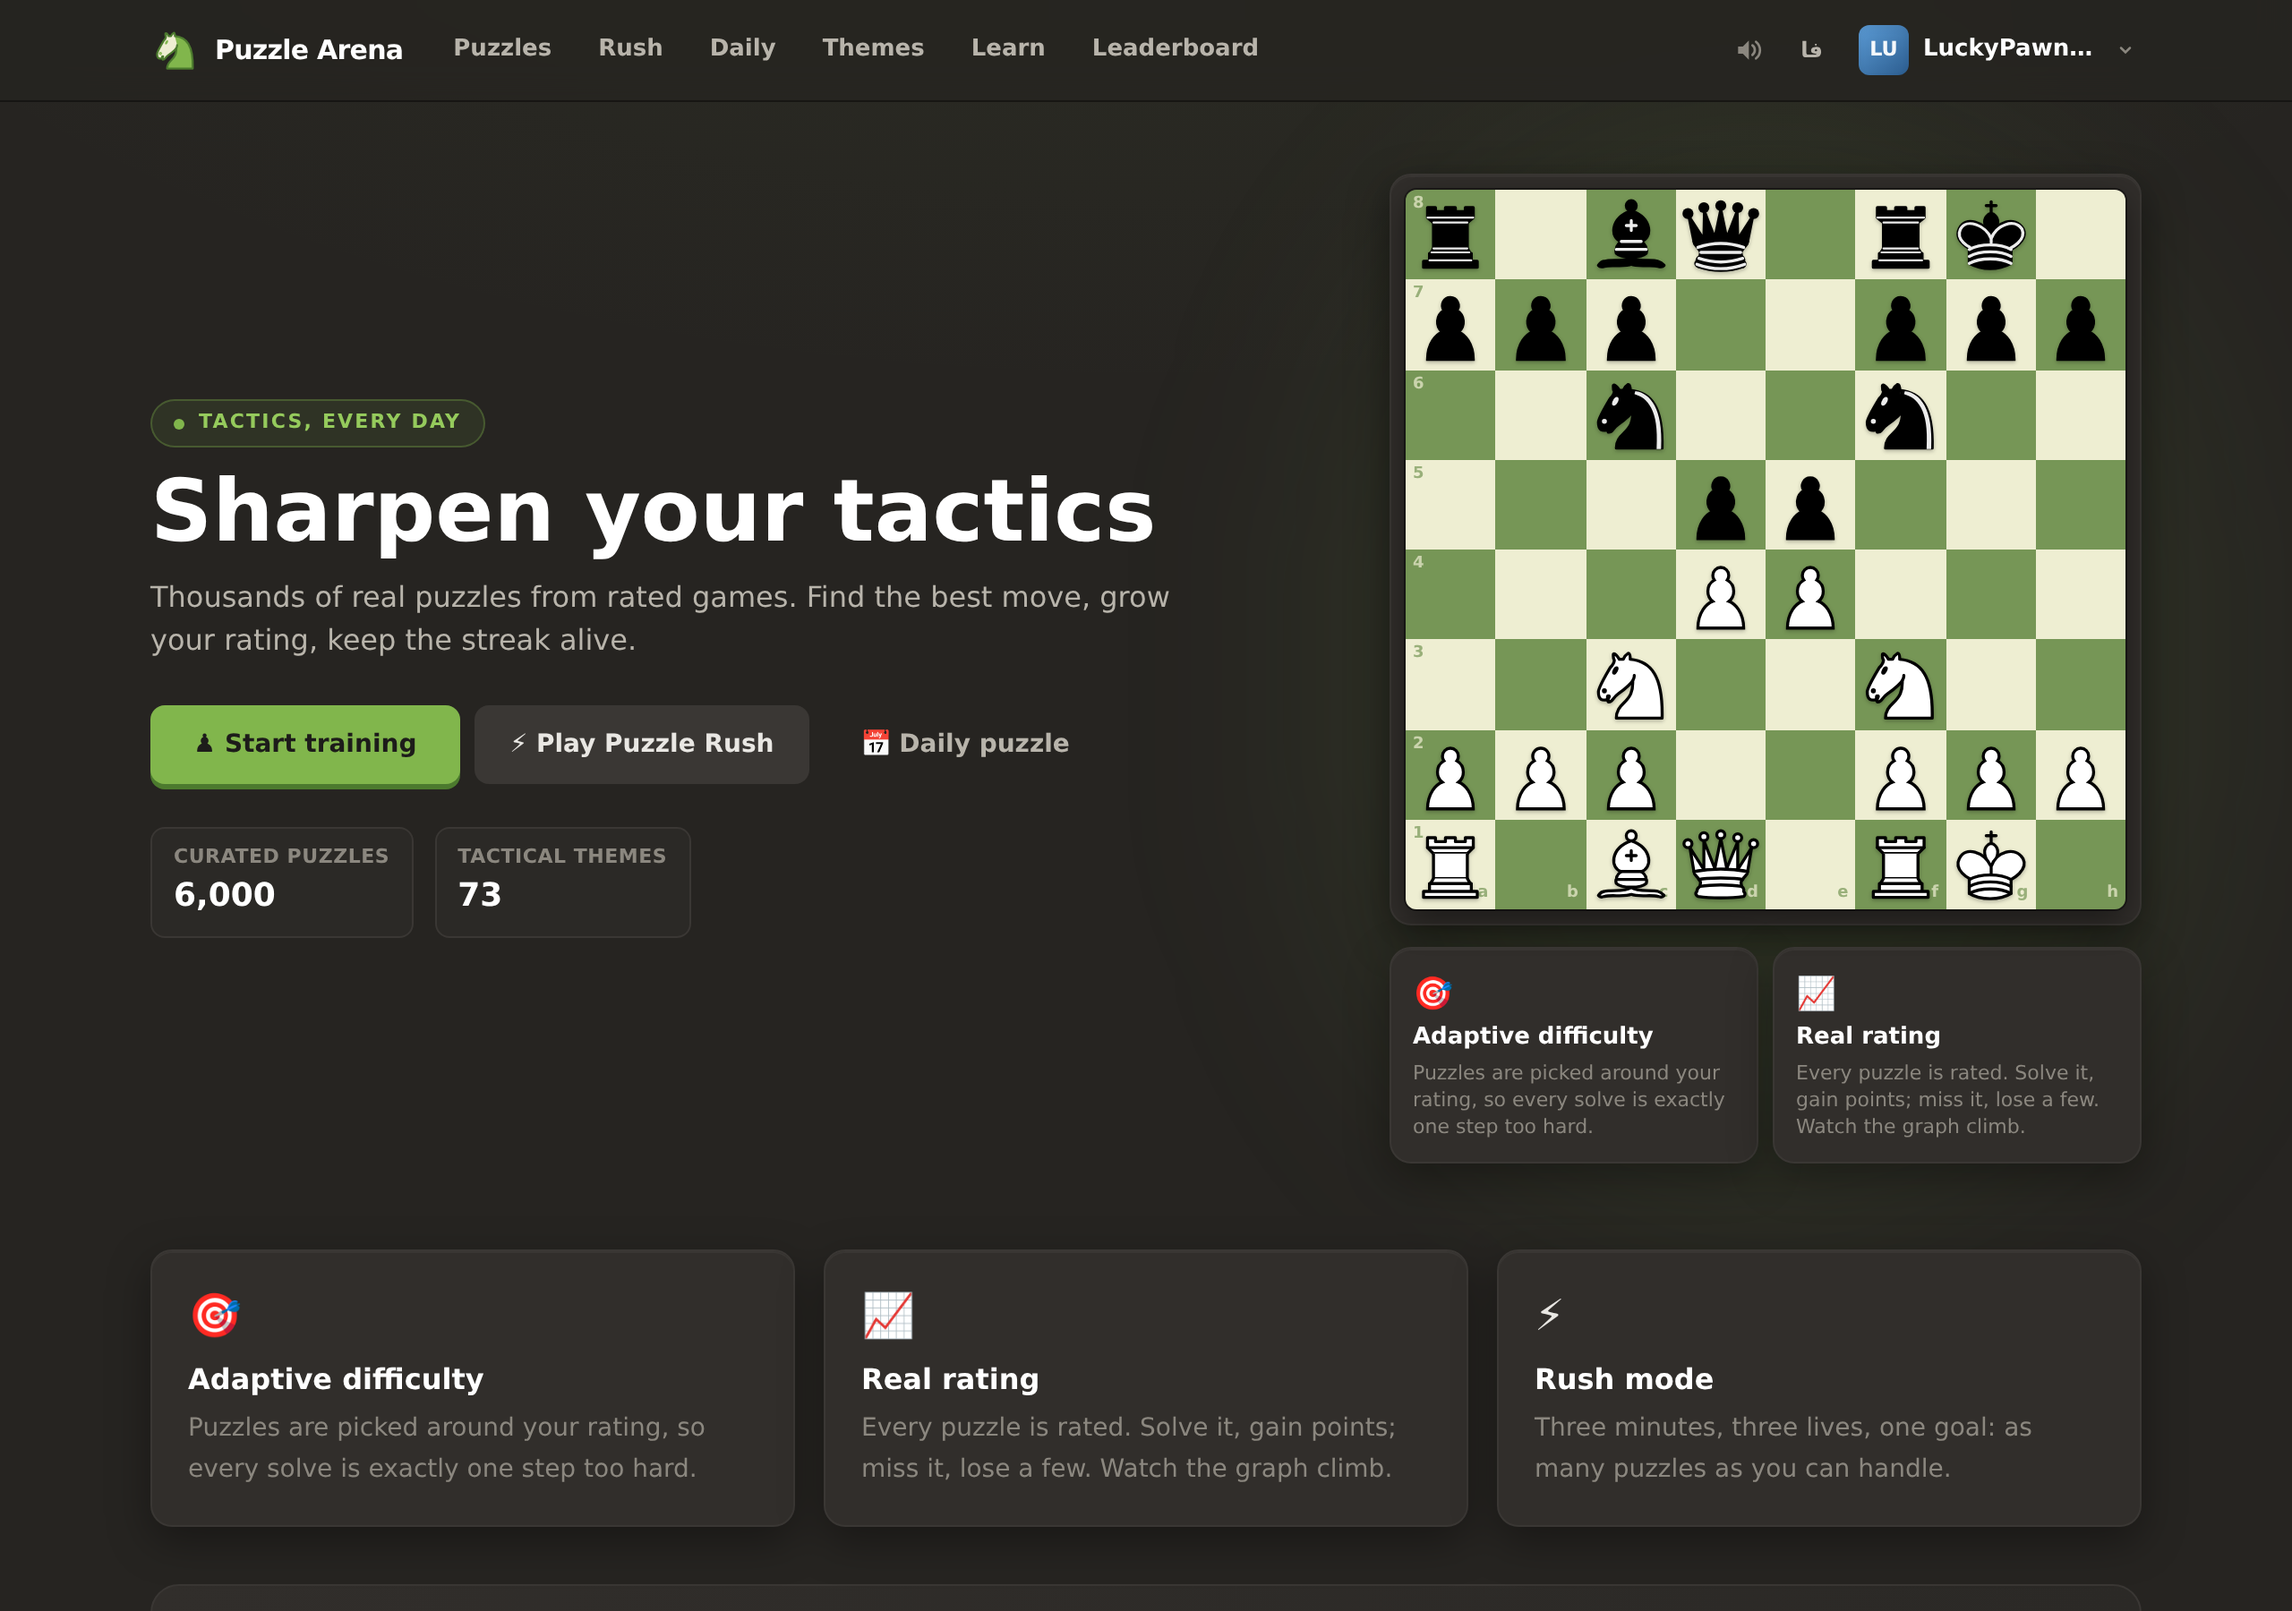
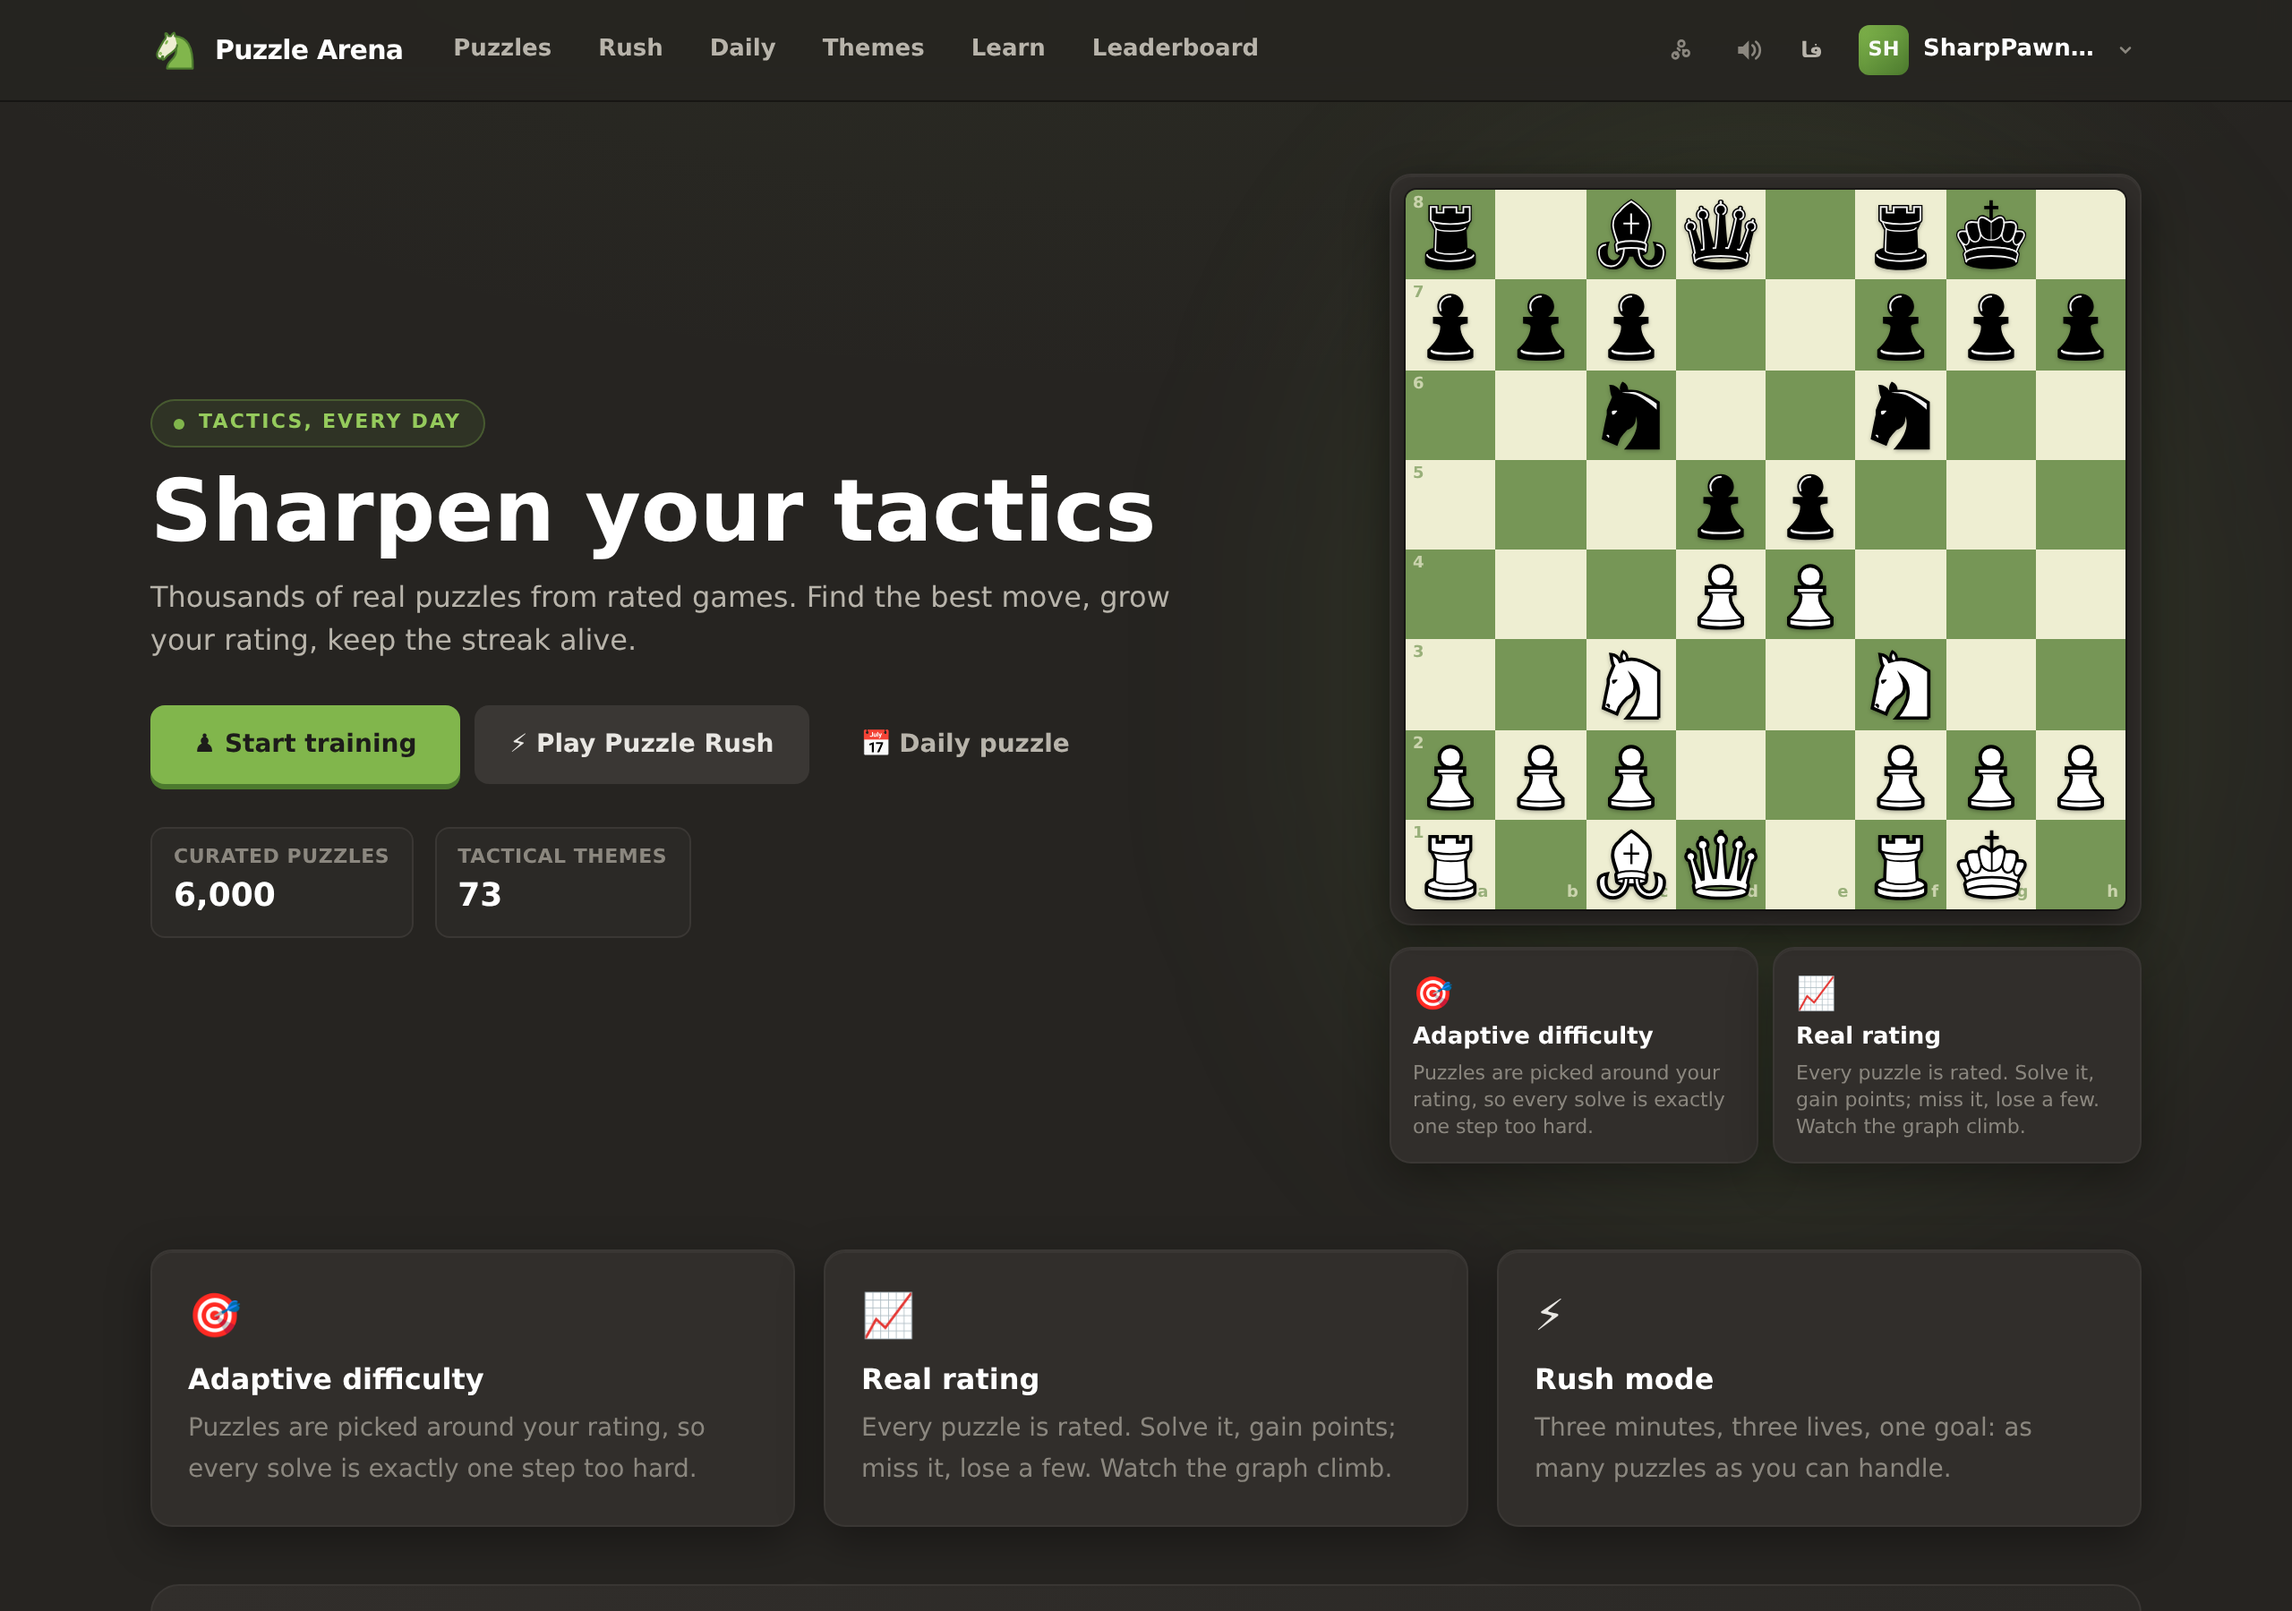
style(pieces): modern piece sets with an in-app style picker
- default set is now chessnut (Apache-2.0): rounded, flat, chess.com-like
- two more bundled sets: kiwen-suwi (CC BY 4.0) and spatial (MIT)
- palette button in the header previews each set and remembers the choice
- drops the old cburnett artwork (GPLv2+) so every bundled asset is permissive
- refreshed README screenshots

diff --git a/client/src/components/Navbar.tsx b/client/src/components/Navbar.tsx
@@ -5,6 +5,7 @@ import { useI18n } from '../lib/i18n';
 import { Avatar, Knight } from './ui';
 import { sound } from '../lib/sound';
 import { OFFLINE_MODE } from '../lib/api';
+import { PIECE_SETS, pieceSrc, usePieceSet } from '../lib/pieceSet';
 
 const links = [
   { to: '/puzzles', key: 'nav.puzzles' },
@@ -21,7 +22,10 @@ export default function Navbar({ onAuth }: { onAuth: () => void }) {
   const [open, setOpen] = useState(false);
   const [menu, setMenu] = useState(false);
   const [muted, setMuted] = useState(sound.muted);
+  const [piecesOpen, setPiecesOpen] = useState(false);
+  const { pieceSet, setPieceSet } = usePieceSet();
   const menuRef = useRef<HTMLDivElement>(null);
+  const piecesRef = useRef<HTMLDivElement>(null);
   const location = useLocation();
 
   useEffect(() => {
@@ -32,6 +36,7 @@ export default function Navbar({ onAuth }: { onAuth: () => void }) {
   useEffect(() => {
     const onClick = (e: MouseEvent) => {
       if (menuRef.current && !menuRef.current.contains(e.target as Node)) setMenu(false);
+      if (piecesRef.current && !piecesRef.current.contains(e.target as Node)) setPiecesOpen(false);
     };
     document.addEventListener('mousedown', onClick);
     return () => document.removeEventListener('mousedown', onClick);
@@ -79,6 +84,57 @@ export default function Navbar({ onAuth }: { onAuth: () => void }) {
               {stats?.streak ? <span title="daily streak">🔥{stats.streak}</span> : null}
             </span>
           )}
+
+          {/* piece set picker */}
+          <div className="relative" ref={piecesRef}>
+            <button
+              onClick={() => setPiecesOpen((o) => !o)}
+              className={`rounded-md p-2 transition hover:bg-ink-700 ${piecesOpen ? 'bg-ink-700 text-white' : 'text-ink-300 hover:text-white'}`}
+              title="Piece style"
+              aria-label="piece style"
+            >
+              <svg width="16" height="16" viewBox="0 0 24 24" fill="none" stroke="currentColor" strokeWidth="2" strokeLinecap="round" strokeLinejoin="round">
+                <circle cx="13.5" cy="6.5" r="2.5" />
+                <circle cx="17.5" cy="14.5" r="2.5" />
+                <circle cx="8.5" cy="16.5" r="2.5" />
+                <path d="M12 12l-1.5-1.5M15 12l1.5 1M10 14l-1 1.5" />
+              </svg>
+            </button>
+            {piecesOpen && (
+              <div className="absolute end-0 mt-1 w-60 animate-slideUp overflow-hidden rounded-lg border border-ink-600 bg-ink-700 p-1.5 shadow-pop">
+                <div className="px-1.5 pb-1.5 text-[10px] font-bold uppercase tracking-widest text-ink-300">
+                  Piece style
+                </div>
+                {PIECE_SETS.map((set) => (
+                  <button
+                    key={set.id}
+                    onClick={() => {
+                      setPieceSet(set.id);
+                      setPiecesOpen(false);
+                      sound.tick();
+                    }}
+                    className={`flex w-full items-center gap-2 rounded-md p-1.5 text-start transition ${
+                      pieceSet === set.id ? 'bg-grass-400/15 ring-1 ring-grass-400/60' : 'hover:bg-ink-600'
+                    }`}
+                  >
+                    <span className="flex h-8 w-16 shrink-0 items-center justify-center gap-px overflow-hidden rounded bg-[#769656]">
+                      {['wN', 'wQ', 'bK'].map((pc) => (
+                        <img key={pc} src={pieceSrc(set.id, pc)} alt="" className="h-6 w-6" />
+                      ))}
+                    </span>
+                    <span className="min-w-0 flex-1">
+                      <span className="block truncate text-[13px] font-semibold text-white">{set.name}</span>
+                      <span className="block truncate text-[10px] text-ink-300">{set.hint}</span>
+                    </span>
+                    {pieceSet === set.id && <span className="text-grass-300">✓</span>}
+                  </button>
+                ))}
+                <div className="px-1.5 pt-1 text-[9px] text-ink-400">
+                  {PIECE_SETS.map((s) => s.license).join(' · ')}
+                </div>
+              </div>
+            )}
+          </div>
 
           <button
             onClick={() => {

diff --git a/client/src/components/Board.tsx b/client/src/components/Board.tsx
@@ -1,5 +1,6 @@
 import { Chess } from 'chess.js';
 import { useCallback, useEffect, useMemo, useRef, useState } from 'react';
+import { pieceSrc, usePieceSet } from '../lib/pieceSet';
 
 export type Orientation = 'white' | 'black';
 export interface Square {
@@ -36,7 +37,10 @@ function squareToXY(square: string, orientation: Orientation) {
   return orientation === 'white' ? { x: file, y: 7 - rank } : { x: 7 - file, y: rank };
 }
 
-export const pieceUrl = (piece: string) => `${import.meta.env.BASE_URL}pieces/${piece}.svg`;
+export function usePieceUrl() {
+  const { pieceSet } = usePieceSet();
+  return (piece: string) => pieceSrc(pieceSet, piece);
+}
 
 const PIECE_NAME: Record<string, string> = { P: 'pawn', N: 'knight', B: 'bishop', R: 'rook', Q: 'queen', K: 'king' };
 
@@ -63,6 +67,7 @@ export default function Board({
   onMove,
   onSelect,
 }: BoardProps) {
+  const { pieceSet } = usePieceSet();
   const boardRef = useRef<HTMLDivElement>(null);
   const [selected, setSelected] = useState<string | null>(null);
   const [drag, setDrag] = useState<{ from: string; piece: string; x: number; y: number } | null>(null);
@@ -279,7 +284,7 @@ export default function Board({
                   }}
                 >
                   <img
-                    src={pieceUrl(piece)}
+                    src={pieceSrc(pieceSet, piece)}
                     alt={`${PIECE_NAME[piece[1]] ?? 'piece'} ${piece[0] === 'w' ? 'white' : 'black'}`}
                     className="piece-img"
                     draggable={false}
@@ -369,7 +374,7 @@ export default function Board({
                       }}
                       className="h-14 w-14 rounded-lg bg-ink-600 p-1 transition hover:bg-grass-400/30 hover:ring-2 hover:ring-grass-400"
                     >
-                      <img src={pieceUrl(`${color}${p.toUpperCase()}`)} alt={p} className="piece-img" />
+                      <img src={pieceSrc(pieceSet, `${color}${p.toUpperCase()}`)} alt={p} className="piece-img" />
                     </button>
                   );
                 })}

diff --git a/client/src/lib/pieceSet.tsx b/client/src/lib/pieceSet.tsx
@@ -1,0 +1,62 @@
+import { createContext, useCallback, useContext, useEffect, useMemo, useState, type ReactNode } from 'react';
+
+export interface PieceSet {
+  id: string;
+  name: string;
+  hint: string;
+  license: string;
+}
+
+/** All bundled sets live in `public/pieces/<id>/`. */
+export const PIECE_SETS: PieceSet[] = [
+  { id: 'chessnut', name: 'Modern', hint: 'Rounded, flat — the default', license: 'Apache 2.0' },
+  { id: 'kiwen-suwi', name: 'Minimal', hint: 'Single-stroke silhouettes', license: 'CC BY 4.0' },
+  { id: 'spatial', name: 'Sharp', hint: 'Thin geometric line art', license: 'MIT' },
+];
+
+const KEY = 'puzzle-arena.piece-set';
+export const DEFAULT_PIECE_SET = PIECE_SETS[0].id;
+
+interface Ctx {
+  pieceSet: string;
+  setPieceSet: (id: string) => void;
+}
+
+const PieceSetContext = createContext<Ctx | null>(null);
+
+export function PieceSetProvider({ children }: { children: ReactNode }) {
+  const [pieceSet, setId] = useState<string>(() => {
+    try {
+      const stored = localStorage.getItem(KEY);
+      if (stored && PIECE_SETS.some((s) => s.id === stored)) return stored;
+    } catch {
+      /* ignore */
+    }
+    return DEFAULT_PIECE_SET;
+  });
+
+  useEffect(() => {
+    try {
+      localStorage.setItem(KEY, pieceSet);
+    } catch {
+      /* ignore */
+    }
+  }, [pieceSet]);
+
+  const setPieceSet = useCallback((id: string) => {
+    if (PIECE_SETS.some((s) => s.id === id)) setId(id);
+  }, []);
+
+  const value = useMemo(() => ({ pieceSet, setPieceSet }), [pieceSet, setPieceSet]);
+  return <PieceSetContext.Provider value={value}>{children}</PieceSetContext.Provider>;
+}
+
+export function usePieceSet(): Ctx {
+  const ctx = useContext(PieceSetContext);
+  return ctx ?? { pieceSet: DEFAULT_PIECE_SET, setPieceSet: () => undefined };
+}
+
+/** URL of a piece inside the currently selected set. */
+export function pieceSrc(set: string, piece: string): string {
+  return `${import.meta.env.BASE_URL}pieces/${set}/${piece}.svg`;
+}

diff --git a/client/src/components/ui.tsx b/client/src/components/ui.tsx
@@ -109,8 +109,12 @@ export function RatingChart({
   const width = 320;
   const pad = 6;
   const ratings = data.map((d) => d.rating);
-  const min = Math.min(...ratings) - 10;
-  const max = Math.max(...ratings) + 10;
+  const lo = Math.min(...ratings);
+  const hi = Math.max(...ratings);
+  // keep the curve readable when the rating barely moves
+  const vpad = Math.max(12, (hi - lo) * 0.15);
+  const min = lo - vpad;
+  const max = hi + vpad;
   const span = Math.max(1, max - min);
   const xs = (i: number) => pad + (i / (data.length - 1)) * (width - pad * 2);
   const ys = (r: number) => height - pad - ((r - min) / span) * (height - pad * 2);

diff --git a/client/src/main.tsx b/client/src/main.tsx
@@ -4,15 +4,18 @@ import { BrowserRouter } from 'react-router-dom';
 import App from './App';
 import { AppProvider } from './store/AppContext';
 import { I18nProvider } from './lib/i18n';
+import { PieceSetProvider } from './lib/pieceSet';
 import './index.css';
 
 createRoot(document.getElementById('root')!).render(
   <StrictMode>
     <BrowserRouter>
       <I18nProvider>
-        <AppProvider>
-          <App />
-        </AppProvider>
+        <PieceSetProvider>
+          <AppProvider>
+            <App />
+          </AppProvider>
+        </PieceSetProvider>
       </I18nProvider>
     </BrowserRouter>
   </StrictMode>,

diff --git a/README.md b/README.md
@@ -24,6 +24,7 @@ Lichess puzzle database (CC0) are bundled, so it works out of the box.
 | 💡 **Progressive hints** | Hint 1 → which piece, hint 2 → the square it stands on, hint 3 → the full move (arrow). |
 | 👤 **Accounts or guests** | JWT auth with bcrypt, or instant guest play — both are rated and tracked. |
 | 🌍 **Bilingual UI** | English and Persian (فارسی) with full RTL layout support. |
+| 🎨 **3 piece styles** | Modern (chessnut), Minimal (kiwen-suwi) and Sharp (spatial) — switchable from the header, remembered locally. |
 | 🔊 **Sound effects** | Tiny WebAudio synth (move, capture, check, success, fail) — no audio assets. |
 | 📱 **Responsive** | Drag & drop or click-to-move, touch friendly, board scales to the viewport. |
 | 🚀 **One-command deploy** | Express serves the built SPA, or ship the client to GitHub Pages. |
@@ -69,7 +70,7 @@ DB_FILE=./data/app.db
 ```
 chess-puzzle-arena/
 ├── client/                    # React 19 + Vite + Tailwind
-│   ├── public/pieces/         # cburnett SVG piece set (CC BY-SA 3.0)
+│   ├── public/pieces/         # 3 SVG piece sets (Apache-2.0 / CC BY 4.0 / MIT)
 │   └── src/
 │       ├── components/        # Board, PuzzleBoard, Navbar, AuthModal, charts…
 │       ├── hooks/usePuzzle.ts # the puzzle state machine (moves, hints, solution, retry)
@@ -176,5 +177,6 @@ cloudflared tunnel --url http://localhost:3001
 
 * Code: MIT (see `LICENSE`)
 * Puzzles: [Lichess puzzle database](https://database.lichess.org/#puzzles) — CC0
-* Piece artwork: “cburnett” by Colin M.L. Burnett — CC BY-SA 3.0
+* Piece artwork: “chessnut” by Alexis Luengas (Apache-2.0), “kiwen-suwi” by neverRare (CC BY 4.0),
+  “spatial” by Maurizio Monge (MIT) — users pick their style from the palette menu in the header.
 * Not affiliated with Chess.com or Lichess.
